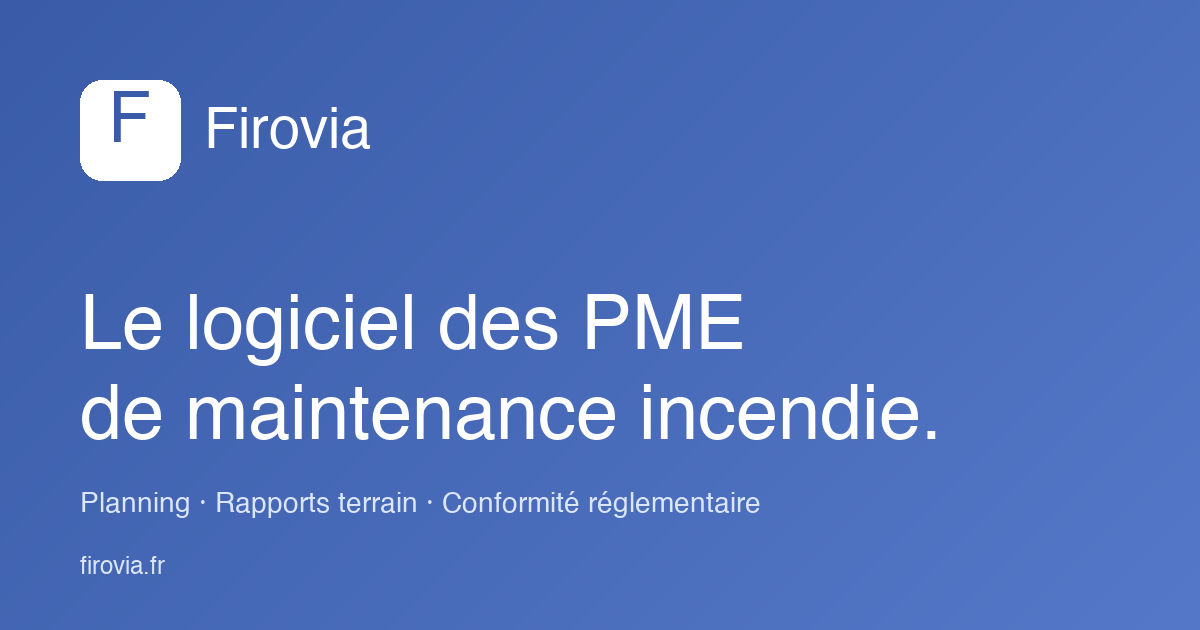
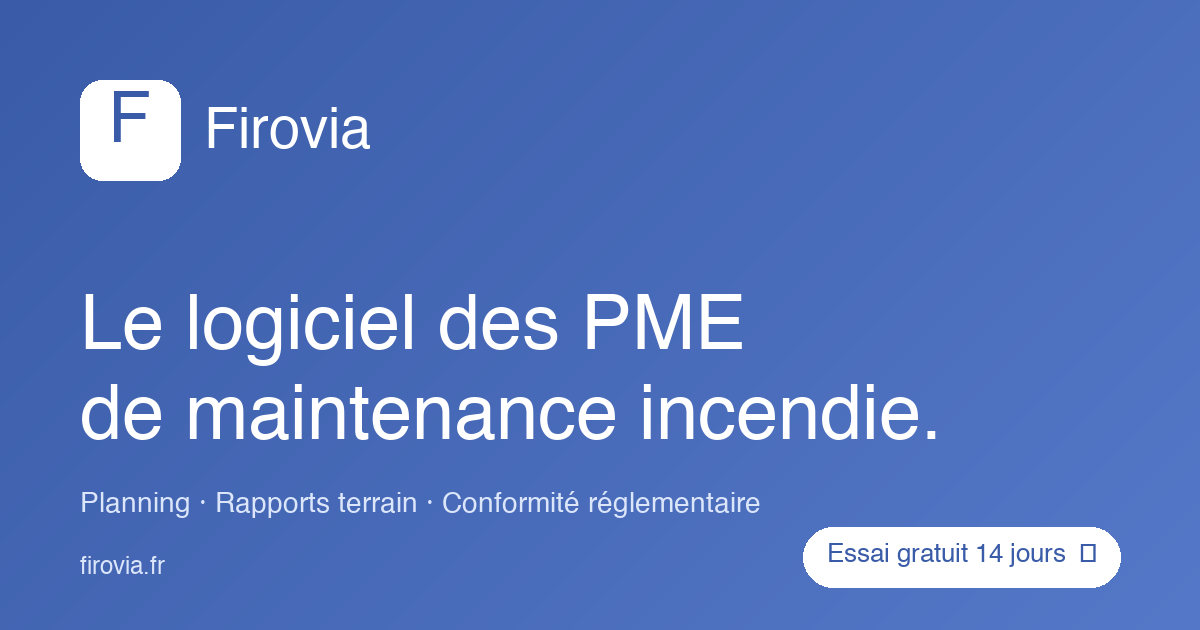
feat(og): ajoute un CTA "Essai gratuit 14 jours" sur l'image OG
Validation opengraph.xyz détectait l'absence de CTA sur l'image partagée
sur les réseaux sociaux.

Ajout d'un bouton pill blanc avec "Essai gratuit 14 jours →" en bas-droite
de l'image OG. Engagement clic attendu en hausse lors des partages
LinkedIn / WhatsApp / Slack.

Changed region(s): [[0.6475, 0.8143, 0.9558, 0.9349]]

diff --git a/scripts/generate-og-image.py b/scripts/generate-og-image.py
@@ -99,10 +99,34 @@ sub_font = try_load_font(f_font_candidates, 28)
 sub = "Planning · Rapports terrain · Conformité réglementaire"
 draw.text((80, 490), sub, fill=(220, 230, 250), font=sub_font)
 
-# ─── 6. URL en bas-droite ────────────────────────────────────────────
+# ─── 6. URL en bas-gauche ────────────────────────────────────────────
 url_font = try_load_font(f_font_candidates, 24)
 url = "firovia.fr"
 draw.text((80, 555), url, fill=(220, 230, 250), font=url_font)
+
+# ─── 7. CTA "bouton" en bas-droite (Essai gratuit 14 jours) ──────────
+cta_text = "  Essai gratuit 14 jours  →  "
+cta_font = try_load_font(f_font_candidates, 26)
+# Mesure du texte pour adapter la pill
+bbox = draw.textbbox((0, 0), cta_text, font=cta_font)
+cta_w = bbox[2] - bbox[0]
+cta_h = bbox[3] - bbox[1]
+cta_pad_y = 18
+cta_pad_x = 10
+pill_w = cta_w + cta_pad_x * 2
+pill_h = cta_h + cta_pad_y * 2
+pill_x = WIDTH - pill_w - 80
+pill_y = 545 - pill_h // 2 + cta_h // 2
+# Fond blanc arrondi (pill shape)
+draw.rounded_rectangle(
+    [pill_x, pill_y, pill_x + pill_w, pill_y + pill_h],
+    radius=pill_h // 2,
+    fill=WHITE,
+)
+# Texte bleu au centre de la pill
+text_x = pill_x + cta_pad_x
+text_y = pill_y + cta_pad_y - 4
+draw.text((text_x, text_y), cta_text, fill=BLUE_1, font=cta_font)
 
 # ─── 7. Sauvegarde ───────────────────────────────────────────────────
 output_path = "/Users/macbookair/Saas BTP/og-image.png"
